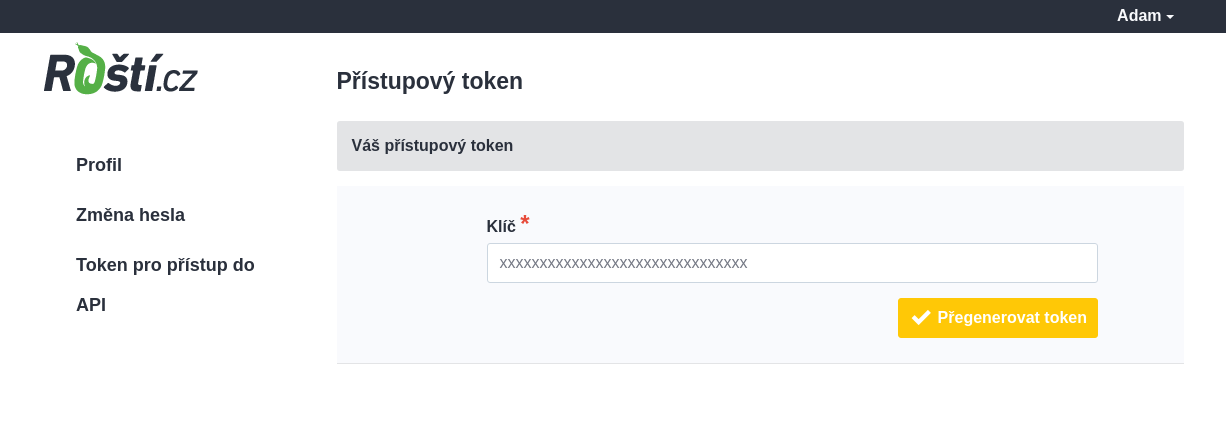
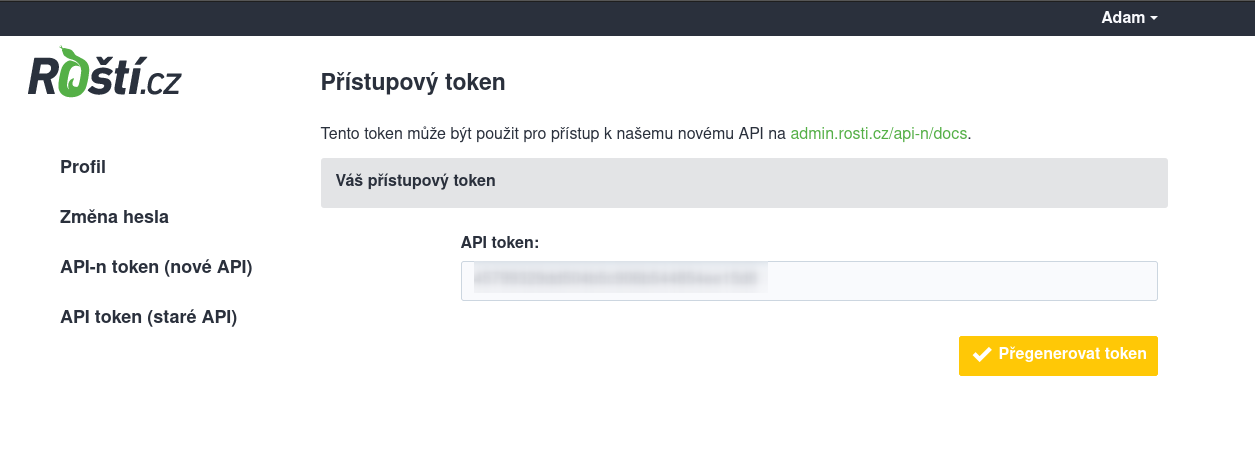
Fix API link

diff --git a/docs/cs/api.md b/docs/cs/api.md
@@ -12,7 +12,7 @@ Po kliknutí vyberte *Token pro přístup do API*.
 
 Token je možné kdykoli přegenerovat, ale každý uživatel může mít jen jeden.
 
-Dokumentace k API je oddělená od této dokumentace, protože je generovaná společně se změnami v kódu a najdete ji na adrese [https://admin.rosti.cz/api/](https://admin.rosti.cz/api/).
+Dokumentace k API je oddělená od této dokumentace, protože je generovaná společně se změnami v kódu a najdete ji na adrese [https://admin.rosti.cz/api-n/docs](https://admin.rosti.cz/api-n/docs).
 
-
+V administraci můžete najít i token pro naše staré API, které už ale není ve vývoji a nové služby do něj již nebudeme přidávat.
 
